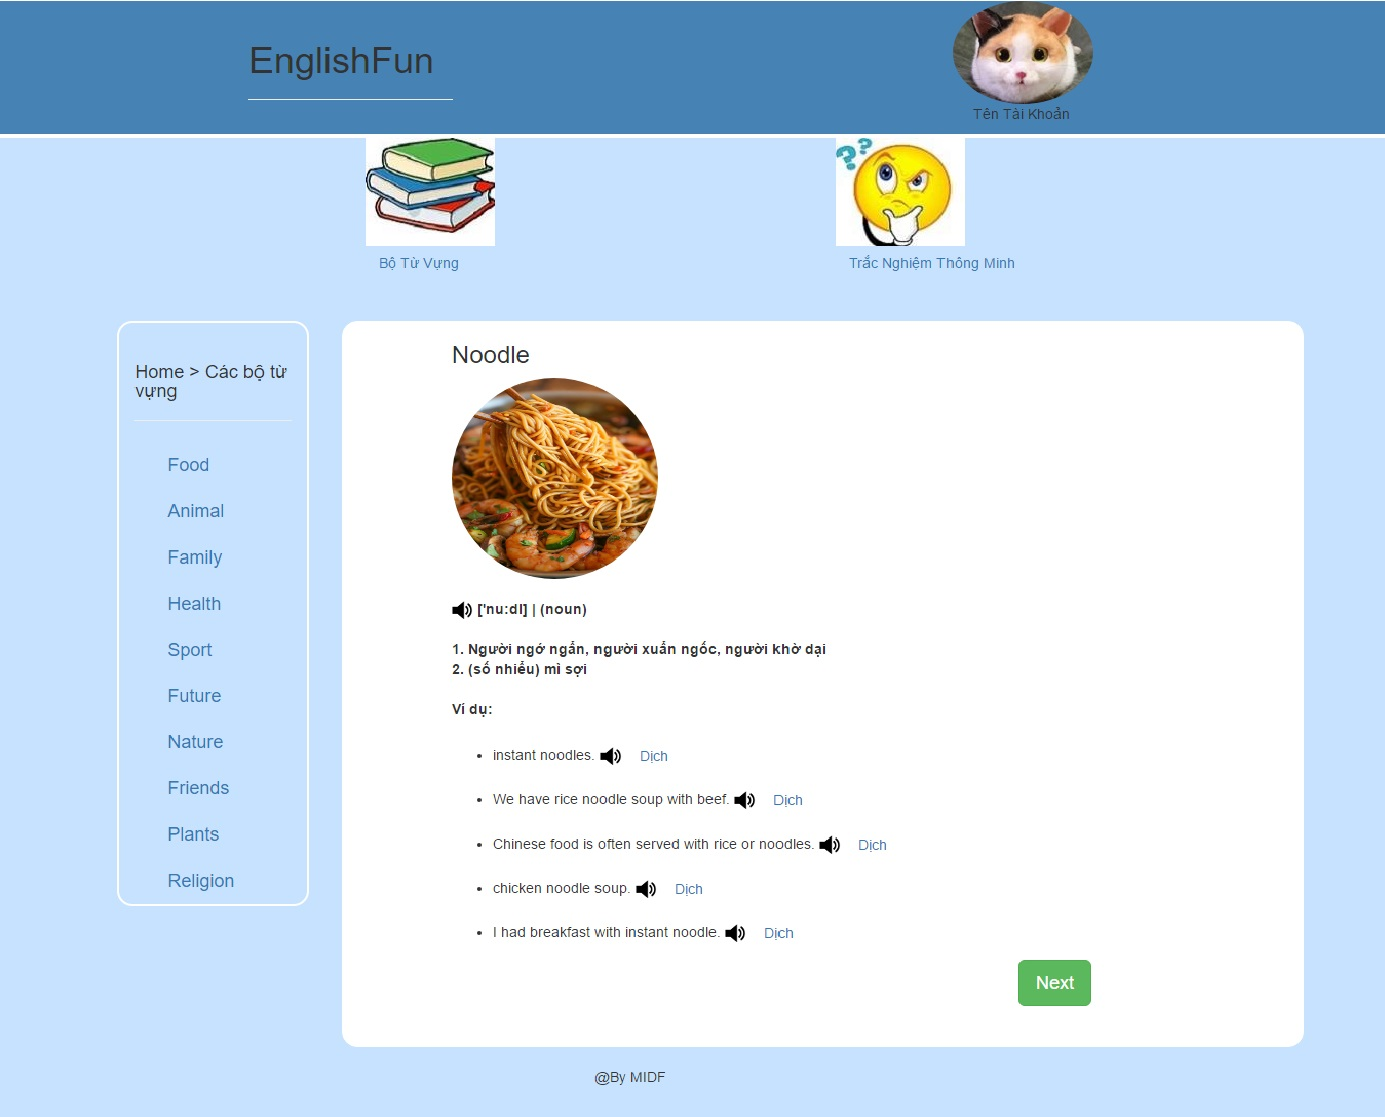
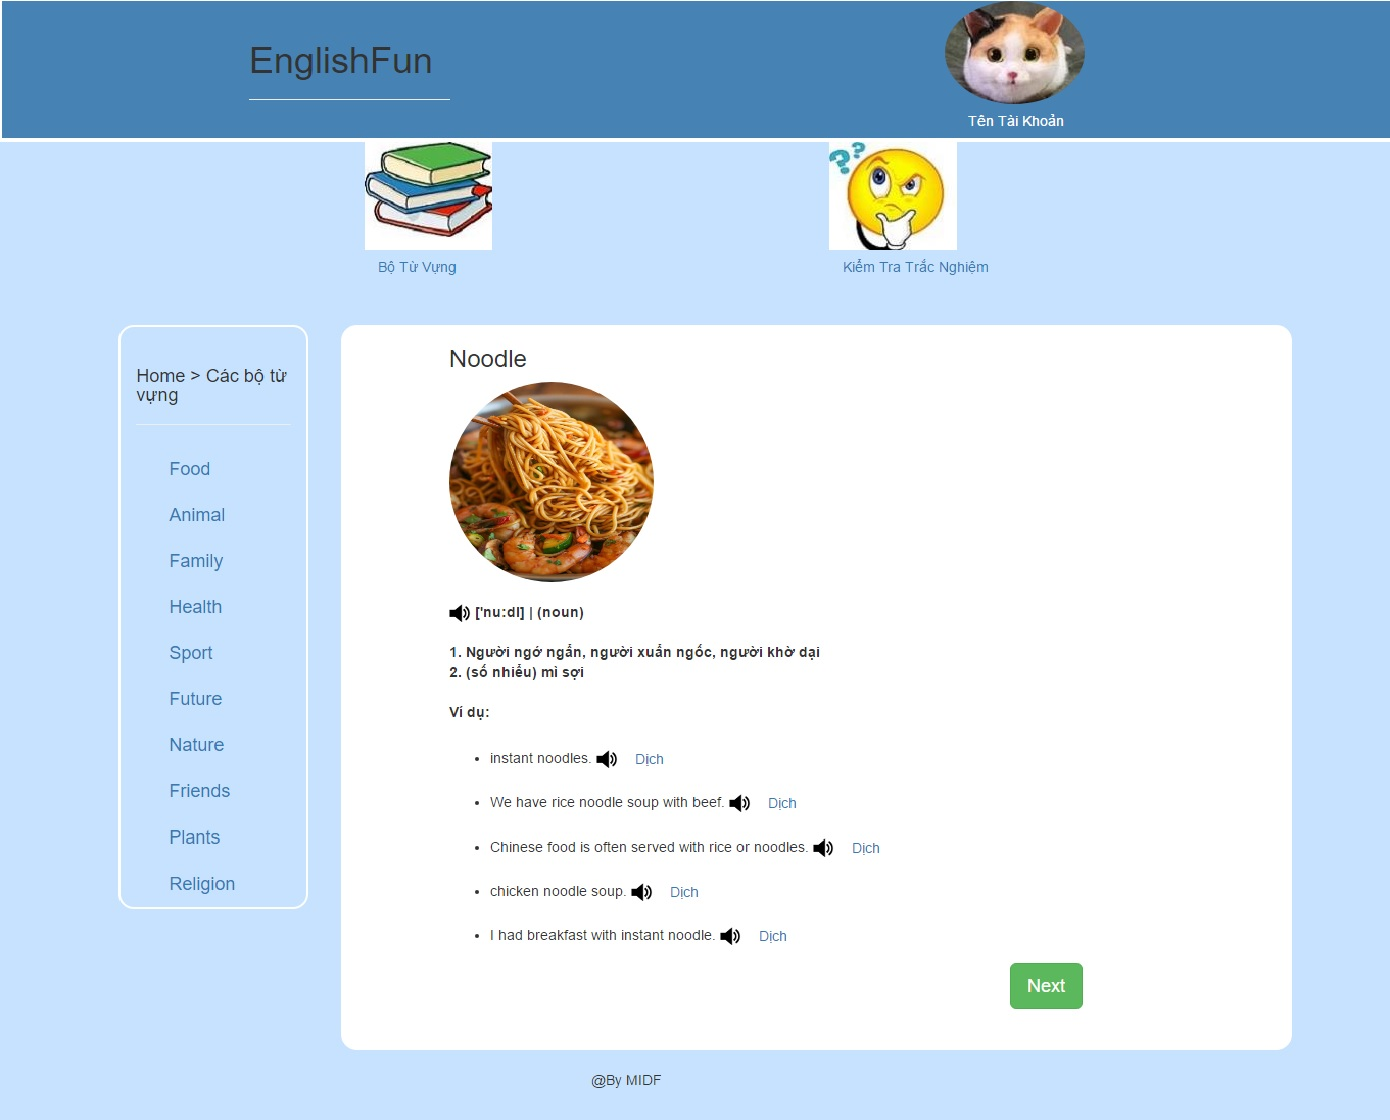
nop bt

diff --git a/englishfun.html b/englishfun.html
@@ -1,0 +1,163 @@
+<!DOCTYPE html>
+<html lang="en">
+  <head>
+    <meta charset="utf-8">
+    <meta http-equiv="X-UA-Compatible" content="IE=edge">
+    <meta name="viewport" content="width=device-width, initial-scale=1">
+
+    <title>1</title>
+
+    <meta name="description" content="Source code generated using layoutit.com">
+    <meta name="author" content="LayoutIt!">
+
+    <!-- <link href="css/bootstrap.min.css" rel="stylesheet"> -->
+    <!-- <link href="css/style.css" rel="stylesheet"> -->
+     <!-- Latest compiled and minified CSS -->
+	<link rel="stylesheet" href="https://maxcdn.bootstrapcdn.com/bootstrap/3.3.7/css/bootstrap.min.css">
+
+<!-- jQuery library -->
+	<script src="https://ajax.googleapis.com/ajax/libs/jquery/3.1.1/jquery.min.js"></script>
+
+<!-- Latest compiled JavaScript -->
+	<script src="https://maxcdn.bootstrapcdn.com/bootstrap/3.3.7/js/bootstrap.min.js"></script>
+	<script src="EnglishFun_config.js"></script>
+	<script src="EnglishFun_functions.js"></script>
+  </head>
+
+  <body style="background-color : #C6E2FF;">
+
+    <div class="container-fluid" ng-app="myapp">
+	<div class="row" style = "background-color: #4682B4; border: none">
+		<div class="col-xs-2 col-sm-2 col-md-2 col-lg-2">
+			
+		</div>
+		<div class="col-xs-2 col-sm-2 col-md-2 col-lg-2">
+			<div class="page-header" style="color: white">
+				<h1>
+					EnglishFun
+				</h1>
+			</div>
+		</div>
+		<div class="col-xs-2 col-sm-2 col-md-2 col-lg-2">
+			
+		</div>
+		<div class="col-xs-2 col-sm-2 col-md-2 col-lg-2">
+			
+		</div>
+		<div class="col-xs-2 col-sm-2 col-md-2 col-lg-2">
+
+		</div>
+		<div class="col-xs-2 col-sm-2 col-md-2 col-lg-2">
+			
+		</div>
+	</div>
+	<div class="row" style="border-top:2px solid white">
+		<div class="col-xs-3 col-sm-3 col-md-3 col-lg-3">
+			
+		</div>
+		<div class="col-xs-2 col-sm-2 col-md-2 col-lg-2">
+			<img alt="hình ảnh bộ từ vựng" src="http://i.imgur.com/hJxDOmR.jpg"> <a href="#" class="btn" type="button">Bộ Từ Vựng</a>
+		</div>
+		<!-- <div class="col-xs-1 col-sm-1 col-md-1 col-lg-1">
+			
+		</div> -->
+		<div class="col-xs-2 col-sm-2 col-md-2 col-lg-2">
+			
+		</div>
+		<div class="col-xs-2 col-sm-2 col-md-2 col-lg-2">
+			<img alt="hình ảnh trắc nghiệm thông minh" src="http://i.imgur.com/Jhh6hMa.jpg"> <a href="#" class="btn" type="button">Kiểm Tra Trắc Nghiệm</a>
+			
+		</div>
+		<div class="col-xs-3 col-sm-3 col-md-3 col-lg-3">
+			
+		</div>
+	</div>
+	<div class="row" style=" border-top:2px solid white;">
+		<div class="col-xs-1 col-sm-1 col-md-1 col-lg-1">
+			
+		</div>
+		<div class="col-xs-2 col-sm-2 col-md-2 col-lg-2">
+			<div class="panel panel-default">
+				<div class="panel-heading">
+						Các nhóm từ
+				</div>
+				<div class="panel-body">
+					Đang học : Ăn uống 
+				</div>
+				<div class="panel-body">
+					Tiếp theo:
+				</div>
+			</div>
+		</div>
+		<div class="col-xs-6 col-sm-6 col-md-6 col-lg-6" style=" background-color: #FFFFFF;">
+			<h3 class="text-center" id="cauthu" ></h3>
+			<div class="row">
+				<div class="col-xs-1 col-sm-1 col-md-1 col-lg-1">
+					
+				</div>
+				<div class="col-xs-11 col-sm-11 col-md-11 col-lg-11">
+					<h4 id="h-typeOfQuestions"></h4>
+					<img id="anh" src="" alt="" >
+				</div>
+			</div>
+			<h3 id="h-questions" class="text-center"></h3>
+			<br>
+			<br>
+			<br>
+			<br>
+			<div class="row">
+				<div class="col-xs-2 col-sm-2 col-md-2 col-lg-2">
+					
+				</div>
+				<div class="col-xs-10 col-sm-10 col-md-10 col-lg-10">
+					<p id="demo"></p>
+					<input type="radio" id="a" name="gender" value="drink" onclick="submitAnswer()"  ">
+					<label for="" id="0"></label>
+					<br> 
+					<br>
+					<input type="radio" id="b" name="gender" value="drinks"  onclick="submitAnswer()">
+					<label for="" id="1"></label>
+					<br> 
+					<br>
+					<input type="radio" id="c" name="gender" value="eat"     onclick="submitAnswer()"> 
+					<label for="" id="2"></label>   
+					<br> 
+					<br>
+					<input type="radio" id="d" name="gender" value="eats"    onclick="submitAnswer()">
+					<label for="" id="3"></label>
+					<br> 
+					<br>
+					<br>
+					<button type="button" class="btn btn-success" onclick="render()"> Next </button>
+					<br>
+					<br>
+				</div>
+				
+			</div>
+		</div>
+		<div class="col-xs-2 col-sm-2 col-md-2 col-lg-2">
+			<div class="panel panel-default">
+				<div class="panel-heading">
+					Điểm của bạn
+				</div>
+				<div id="diem" class="panel-body">
+					0
+				</div>
+			</div>
+			<h3 id="end" style="color: green;"></h3>
+		</div>
+		<div class="col-xs-1 col-sm-1 col-md-1 col-lg-1">
+			
+		</div>
+	</div>
+	<div class="row">
+		<footer class="text-center">
+			@MIDF
+		</footer>
+	</div>
+	</div>
+	<script>
+  	render();
+  </script>
+  </body>
+</html>

diff --git a/3.html b/3.html
@@ -91,33 +91,33 @@
 				</div>
 				<div class="col-md-11">
 					<p class="lead">
-						Chọn từ thích hợp điền vào chỗ trống
+						Chọn từ miêu tả hình ảnh
 					</p>
-					<br>
 				</div>
 			</div>
-			<p class="lead text-center">
-				She______rice and meat
-			</p>
-			<br>
-			<br>
-			<br>
-			<br>
+			<div class="row">
+				<div class="col-md-4">
+				</div>
+				<div class="col-md-4">
+					<img alt="Bootstrap Image Preview" src="http://i.imgur.com/S0eRDRV.jpg">
+				</div>
+				<div class="col-md-4">
+				</div>
+			</div>
 			<div class="row">
 				<div class="col-md-2">
 				</div>
 				<div class="col-md-10">
-					 <input type="radio" id="a" name="gender" value="drink"><strong> drink </strong></input><br><br>
-					 <input type="radio" id="a" name="gender" value="drinks"><strong> drinks </strong></input><br><br>
-					 <input type="radio" id="a" name="gender" value="eat"><strong> eat</strong></input><br><br>
-					 <input type="radio" id="a" name="gender" value="eats"><strong> eats </strong></input><br><br> 
+					 <input type="radio" id="a" name="gender" value="drinks"><strong> Bread </strong></input><br>><br>
+					 <input type="radio" id="a" name="gender" value="drinks"><strong> Beef </strong></input><br><br>
+					 <input type="radio" id="a" name="gender" value="drinks"><strong> Meat </strong></input><br><br>
+					 <input type="radio" id="a" name="gender" value="drinks"><strong> Egg </strong></input><br><br> 
 					 <br>
 					<button type="button" class="btn btn-success btn-lg">
 								Next 
 							</button>
-							<br>
-							<br>
-							<br>
+					<br>
+					<br>
 				</div>
 			</div>
 		</div>
@@ -145,12 +145,11 @@
 		<div class="col-md-3">
 		</div>
 		<div class="col-md-2">
-			<br>
+		<br>
 			<p>
 				@By MIDF
 			</p>
 			<br>
-			
 		</div>
 		<div class="col-md-3">
 		</div>
@@ -158,6 +157,7 @@
 		</div>
 	</div>
 </div>
+
     <script src="js/jquery.min.js"></script>
     <script src="js/bootstrap.min.js"></script>
     <script src="js/scripts.js"></script>

diff --git a/2.html b/2.html
@@ -91,13 +91,13 @@
 				</div>
 				<div class="col-md-11">
 					<p class="lead">
-						Chọn từ thích hợp điền vào chỗ trống
+						Chọn nghĩa của từ
 					</p>
 					<br>
 				</div>
 			</div>
 			<p class="lead text-center">
-				She______rice and meat
+				Meat
 			</p>
 			<br>
 			<br>
@@ -107,10 +107,10 @@
 				<div class="col-md-2">
 				</div>
 				<div class="col-md-10">
-					 <input type="radio" id="a" name="gender" value="drink"><strong> drink </strong></input><br><br>
-					 <input type="radio" id="a" name="gender" value="drinks"><strong> drinks </strong></input><br><br>
-					 <input type="radio" id="a" name="gender" value="eat"><strong> eat</strong></input><br><br>
-					 <input type="radio" id="a" name="gender" value="eats"><strong> eats </strong></input><br><br> 
+					 <input type="radio" id="a" name="gender" value="drinks"><strong> cơm </strong></input><br><br>
+					 <input type="radio" id="a" name="gender" value="drinks"><strong> cam </strong></input><br><br>
+					 <input type="radio" id="a" name="gender" value="drinks"><strong> thịt </strong></input><br><br>
+					 <input type="radio" id="a" name="gender" value="drinks"><strong> trứng </strong></input><br><br>
 					 <br>
 					<button type="button" class="btn btn-success btn-lg">
 								Next 

diff --git a/4.html b/4.html
@@ -48,10 +48,8 @@
 				<div class="col-md-2">
 				</div>
 				<div class="col-md-2">
-					<img alt="Bootstrap Image Preview" src="image/taikhoan.jpg" class="img-circle">
-					<p style="margin-left: 20px">
-						Tên Tài Khoản
-					</p>
+					<img alt="hình ảnh đăng nhập" src="http://i.imgur.com/GGyTH3Z.jpg" class="img-circle">
+			<a href="#" class="btn" type="button" style="color:white ; margin-left: 10px">Tên Tài Khoản</a>
 				</div>
 				<div class="col-md-2">
 				</div>
@@ -68,7 +66,7 @@
 		<div class="col-md-2">
 		</div>
 		<div class="col-md-2">
-			<img alt="hình ảnh trắc nghiệm thông minh" src="http://i.imgur.com/Jhh6hMa.jpg"> <a href="#" class="btn" type="button">Trắc Nghiệm Thông Minh</a>
+			<img alt="hình ảnh trắc nghiệm thông minh" src="http://i.imgur.com/Jhh6hMa.jpg"> <a href="#" class="btn" type="button">Kiểm Tra Trắc Nghiệm</a>
 		</div>
 		<div class="col-md-3">
 		</div>
